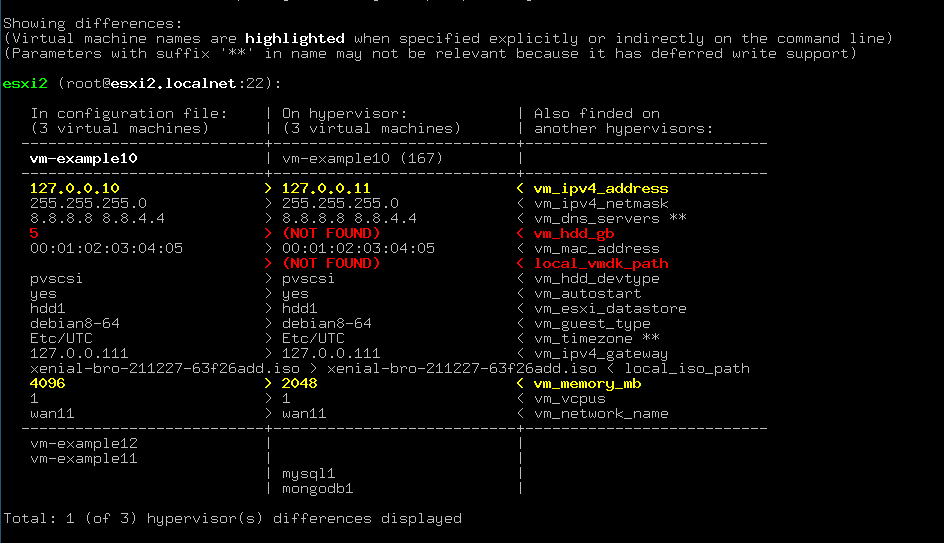
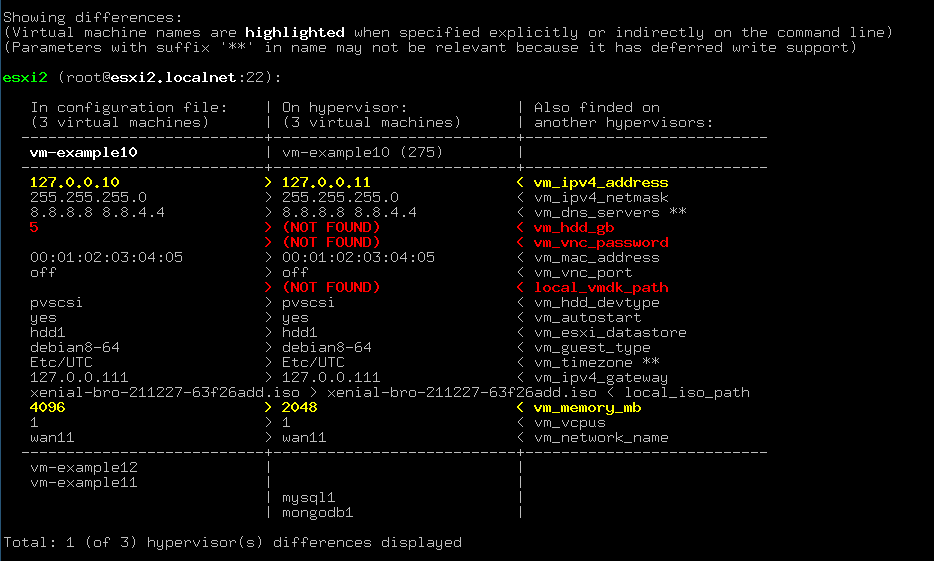
[control_vm_esxi.sh]: Added support for managing VNC-access to virtual machines through the new parameters 'vm_vnc_port' and 'vm_vnc_password' (refs #141)

Changed region(s): [[0.0, 0.0, 0.9625, 0.884], [0.0931, 0.8545, 0.4968, 1.0], [0.0, 0.9429, 0.0621, 0.9724]]

diff --git a/docs/CONTROL_VM_ESXI.md b/docs/CONTROL_VM_ESXI.md
@@ -335,8 +335,12 @@ $ ./control_vm_esxi.sh update <parameter_name> [options] <vm_name> [<esxi_name>]
 Все поддерживаемые опции были рассмотрены в секции по [команде **create**](#команда-create).
 
 На данный момент команда умеет обновлять значения следующих параметров - `local_iso_path`, `vm_dns_servers`,
-`vm_timezone`. Все параметры обновляются на "горячую", т.е. меняют свои значения сразу же, но только в конфигурации
-гипервизора. Поэтому, чтобы обновленные значения подхватились самими виртуальными машинами необходима их перезагрузка.
+`vm_timezone`, `vm_vnc_port`. Все параметры обновляются на "горячую", т.е. меняют свои значения сразу же, но только
+в конфигурации гипервизора. Поэтому, чтобы обновленные значения подхватились самими виртуальными машинами необходима
+их перезагрузка (это касается параметров `vm_dns_servers` и `vm_timezone`).
+
+При обновлении `vm_vnc_port` параметра также обновляется значение и `vm_vnc_password` параметра.
+Раздельное обновление только порта или только пароля для VNC-доступа на данный момент не поддерживается.
 
 **!!! Важно**, чтобы базовый слой, на основе которого работает виртуальная машина имел поддержку извлечения
 `ISO`-образа из виртуального CD-ROM через `vmware-tools`. Сейчас скрипт посылает команду `eject` через гипервизор
@@ -423,6 +427,8 @@ $ ./control_vm_esxi.sh upload all
 #vm_ssh_username="root"
 #vm_timezone="Etc/UTC"
 #vm_vcpus=1
+#vm_vnc_port="off"
+#vm_vnc_password=""
 
 local_iso_path=xenial-bro-211227-63f26add.iso
 vm_esxi_datastore=hdd1
@@ -442,7 +448,8 @@ esxi3 \
 vm-example10 at="esxi2" \
   vm_autostart="yes" \
   vm_ipv4_address="127.0.0.11" \
-  vm_memory_mb=2048
+  vm_memory_mb=2048 \
+  vm_vnc_port=auto
 
 vm1-example11 at="esxi3" vm_ipv4_address="127.0.0.12"
 
@@ -506,6 +513,8 @@ vm-example12 at="esxi2" \
 | **vm_ssh_username** | SSH-пользователь для доступк к виртуальной машине | root |
 | **vm_timezone** | Временная зона виртуальной машины | Etc/UTC |
 | **vm_vcpus** | Количество виртуальных процессоров для виртуальной машины | 1 |
+| **vm_vnc_port** | Номер порта для VNC-доступа к виртуальной машины (помимо номера может принимать значения: `auto` - для автоматического выбора порта, `off` - для отключения VNC-доступа) | off |
+| **vm_vnc_password** | Пароль для VNC-доступа к виртуальной машине | |
 
 Параметры **vm_ssh_** сейчас используются только при вызове [хук-скриптов](#хуки), больше нигде. В будущем их планируется
 полностью удалить.
@@ -561,29 +570,42 @@ $ ./control_vm_esxi.sh create vm-example10
 
 ### Виды статусов
 
-Каждая команда заканчивается каким-либо результатом, в терминах скрипта - статусом. Ниже приведена таблица со всеми
-возможными статусами с уточнением в каких именно командах конкретный статус может возникать:
+Каждая команда заканчивается каким-либо результатом, в терминах скрипта - статусом. Статус может быть одиночным
+или составным, т.е. содержать в себе несколько статусов. Одиночный статус или самый первый из составного называется
+основным, остальные - вспомогательными. Статусы разделяются наклонной чертой `/`, например:
 
-| Статус | Описание значения | Может возникнуть в командах |
+```
+CREATED/PINGED/VNC ENABLED (Runned on 'xenial-bro-211227-63f26add.iso')
+```
+
+В круглых скобках указывается расшифровка статусов, при необходимости.
+
+Ниже приведены таблицы со всеми возможными основными и вспомогательным статусами с уточнением в каких именно
+командах конкретный статус может возникать:
+
+| Основной статус | Описание значения | Может возникнуть в командах |
 | ------ | ----------------- | --------------------------- |
 | ABORTED | Операция была прервана по серъезной ошибке или по требованию пользователя (требуется реакция оператора, т.к. может быть промежуточное состояние) | любых |
 | NOT PROCESSED | Виртуальная машина не была обработана из-за прерывания обработки (встречается вместе с ABORTED) | любых |
 | SKIPPED ESXI | Обработка всех виртуальных машин была пропущена из-за проблемы на гипервизоре | любых |
 | SKIPPED VM | Обработка виртуальной машины была пропущена из-за какой-либо ошибки | любых |
-| CREATED/NO PINGING | Виртуальная машина создана, но не доступна по сети | create |
-| CREATED/PINGING | Виртуальная машина создана и доступна по сети | create |
-| DESTROYED | Виртуальная машина уничтожена | create (с опцией `-d`), destroy |
-| REBOOTED | Виртуальная машины перезагружена (без проверки на доступность по сети) | create (с опцией `-d`) |
-| REBOOTED/NO PINGING | Виртуальная машина перезагружена, но не доступна по сети | reboot |
-| REBOOTED/PINGING | Виртуальная машина перезагружена и доступна по сети | reboot |
-| RECREATED/NO PINGING | Виртуальная машина пересоздана, но не доступна по сети | create (с опцией `-f`) |
-| RECREATED/PINGING | Виртуальная машина пересоздана и доступна по сети | create (с опцией `-f`) |
-| STARTED/PINGING | Виртуальная машина включена и доступна по сети | start |
-| STARTED/NO PINGING | Виртуальная машина включена, но не доступна по сети | start |
+| CREATED | Виртуальная машина создана | create, create с опцией `-d` |
+| DESTROYED | Виртуальная машина уничтожена | create с опцией `-d`, destroy |
+| REBOOTED | Виртуальная машины перезагружена | create с опцией `-d`, reboot |
+| RECREATED | Виртуальная машина пересоздана | create с опцией `-f` |
+| STARTED | Виртуальная машина включена | start |
 | STATUS REQUESTED | Получен статус питания виртуальной машины | status |
 | STOPPED | Виртуальная машина выключена | stop |
 | UPDATED | Обновлен параметр виртуальной машины | update |
 | UPDATE NOT REQUIRED | Обновление параметра виртуальной машины не требуется (уже имеет нужное значение) | update |
+
+| Вспомогательный статус | Описание значения | Может возникнуть в командах |
+| ---------------------- | ----------------- | --------------------------- |
+| NO PINGING | Виртуальная машина не доступна по сети | create, reboot, start |
+| PINGING | Виртуальная машина доступна по сети | create, reboot, start |
+| VNC ENABLED | VNC-доступ до виртуальной машины организован | create |
+| VNC FAILED | Проблема при организации VNC-доступа к виртуальной машине | create |
+| VNC UNKNOWN | Не удалось распарсить URL-строчку с VNC-доступом к виртуальной машине | create |
 
 При операции миграции (команда `create` с опцией `-d`) в статусе вместо одной виртуальной машины появятся две:
 одна созданная и одна уничтоженная:

diff --git a/README.md b/README.md
@@ -33,6 +33,7 @@
 * Уничтожение, включение, выключение, перезагрузка, получение статуса питания виртуальных машин, в том числе
   и не указанных в конфигурационном файле;
 * Получение статуса питания виртуальных машин;
+* Управлением VNC-доступом к виртуальным машинам;
 * Автоматическое включение менеджера автостарта виртуальных машин в гипервизоре, если это необходимо;
 * Поддержка запуска различных вспомогательных скриптов (хуков);
 * Отображение различий настроек в конфигурационном файле и на гипервизорах;

diff --git a/docs/EXAMPLES.md b/docs/EXAMPLES.md
@@ -92,7 +92,8 @@ vm-example10 at="esxi2" \
   vm_autostart="yes" \
   vm_ipv4_address="127.0.0.11" \
   vm_mac_address="00:01:02-03:04:05" \
-  vm_memory_mb=2048
+  vm_memory_mb=2048 \
+  vm_vnc_port=auto
 
 vm1-example11 at="esxi3" vm_ipv4_address="127.0.0.12"
 
@@ -195,6 +196,11 @@ $ ./control_vm_esxi.sh stop -fs esxi1/test3
 виртуальной машины `vm-example10`:
 ```bash
 ./control_vm_esxi.sh update vm_dns_servers vm-example10
+```
+
+Переназначениие порта (т.к. vm_vnc_port='auto') VNC-доступа к виртуальной машине для виртуальной машины `vm-exmaple10`:
+```bash
+./control_vm_esxi.sh update vm_vnc_port vm-example10
 ```
 
 Предварительная загрузка необходимых `ISO`-образов и `HDD`-шаблонов на все гипервизоры:

diff --git a/CHANGELOG.md b/CHANGELOG.md
@@ -65,6 +65,8 @@ v1.210316
 ### control_vm_esxi.sh
 
 v4.??????
+- Добавлена поддержка управления VNC-доступом к виртуальным машинам через новые параметры `vm_vnc_port` и
+  `vm_vnc_password`. В качестве порта могут быть указаны значения `auto`, `off` и конкретный номер порта.
 - Добавлено отображение в статусе исходного `ISO`-образа и/или `VMDK`-шаблона (Runned on 'example.iso') на базе
   которого/ых была пересоздана виртуальная машина (команда `create` с опцией `-f`): ранее отображалось только
   для вновь созданных виртуальных машин
